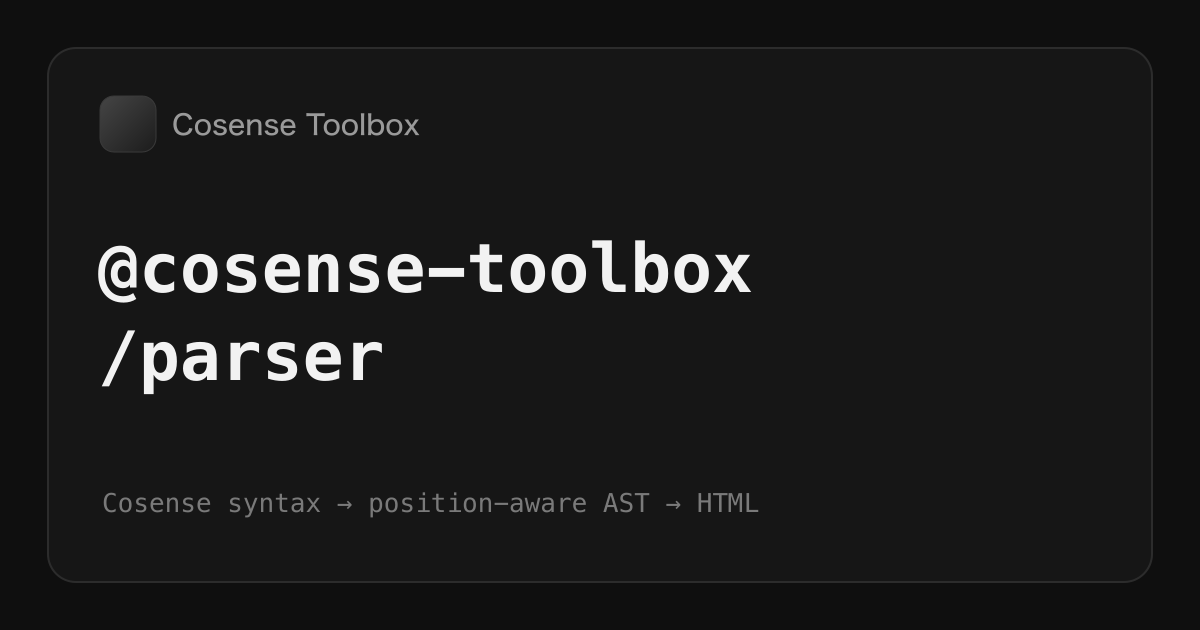
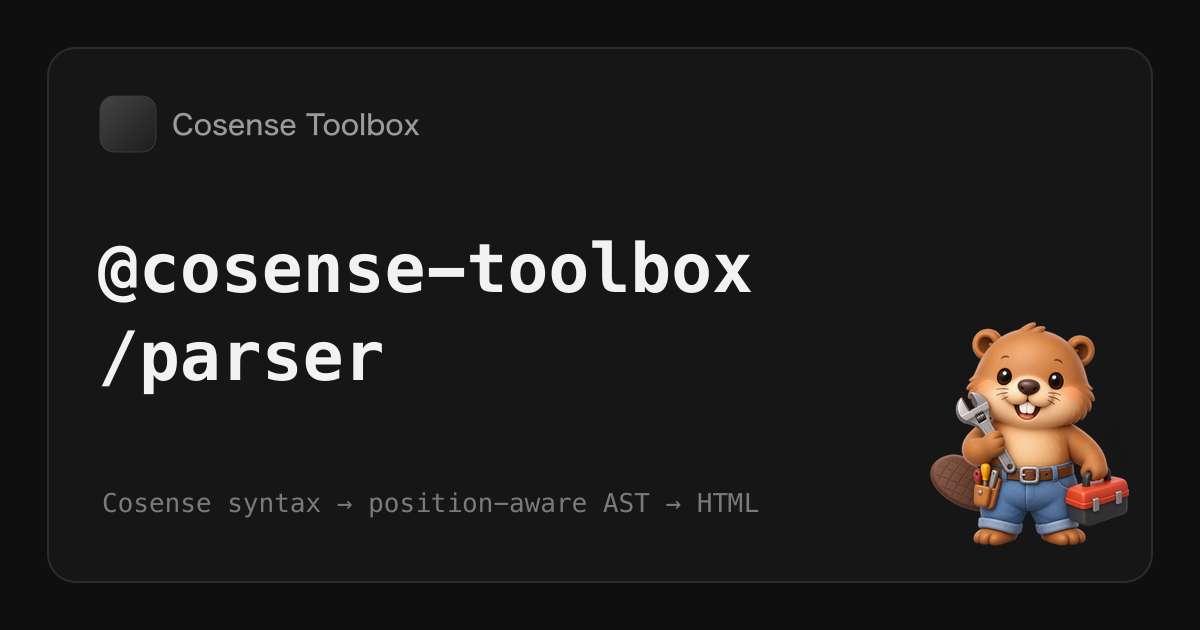
Use the beaver mascot across the site and OG cards
ヘッダのロゴ、ツールボックスのボタンとドロワー、404、OG 画像をマスコットに差し替える。
favicon と apple-touch-icon は scripts/build-icons.mjs で元画像から生成し、gen に含める。

透過 PNG なので、apple-touch-icon は extend だけでは中が透けたままになる。
flatten で背景を敷いてから書き出している。

Changed region(s): [[0.7708, 0.5127, 0.9558, 0.8746]]

diff --git a/apps/web/src/styles/global.css b/apps/web/src/styles/global.css
@@ -60,11 +60,9 @@ a { color: inherit; text-decoration: none; }
 }
 .site-header .wrap { display: flex; align-items: center; justify-content: space-between; height: 58px; }
 .brand { display: flex; align-items: center; gap: 10px; font-weight: 700; letter-spacing: -0.01em; }
-.brand .logo {
-	width: 26px; height: 26px; border-radius: 7px;
-	background: var(--bg-elev); border: 1px solid var(--border);
-	display: grid; place-items: center; font-size: 14px;
-}
+.brand .logo { width: 30px; height: 30px; display: block; }
+.tb-fab img, .tb-panel h2 img { display: block; }
+.tb-panel h2 { display: flex; align-items: center; gap: 8px; }
 .header-actions { display: flex; align-items: center; gap: 12px; }
 .site-header nav { display: flex; gap: 18px; font-size: 13.5px; color: var(--text-dim); }
 .site-header nav a:hover { color: var(--text); }
